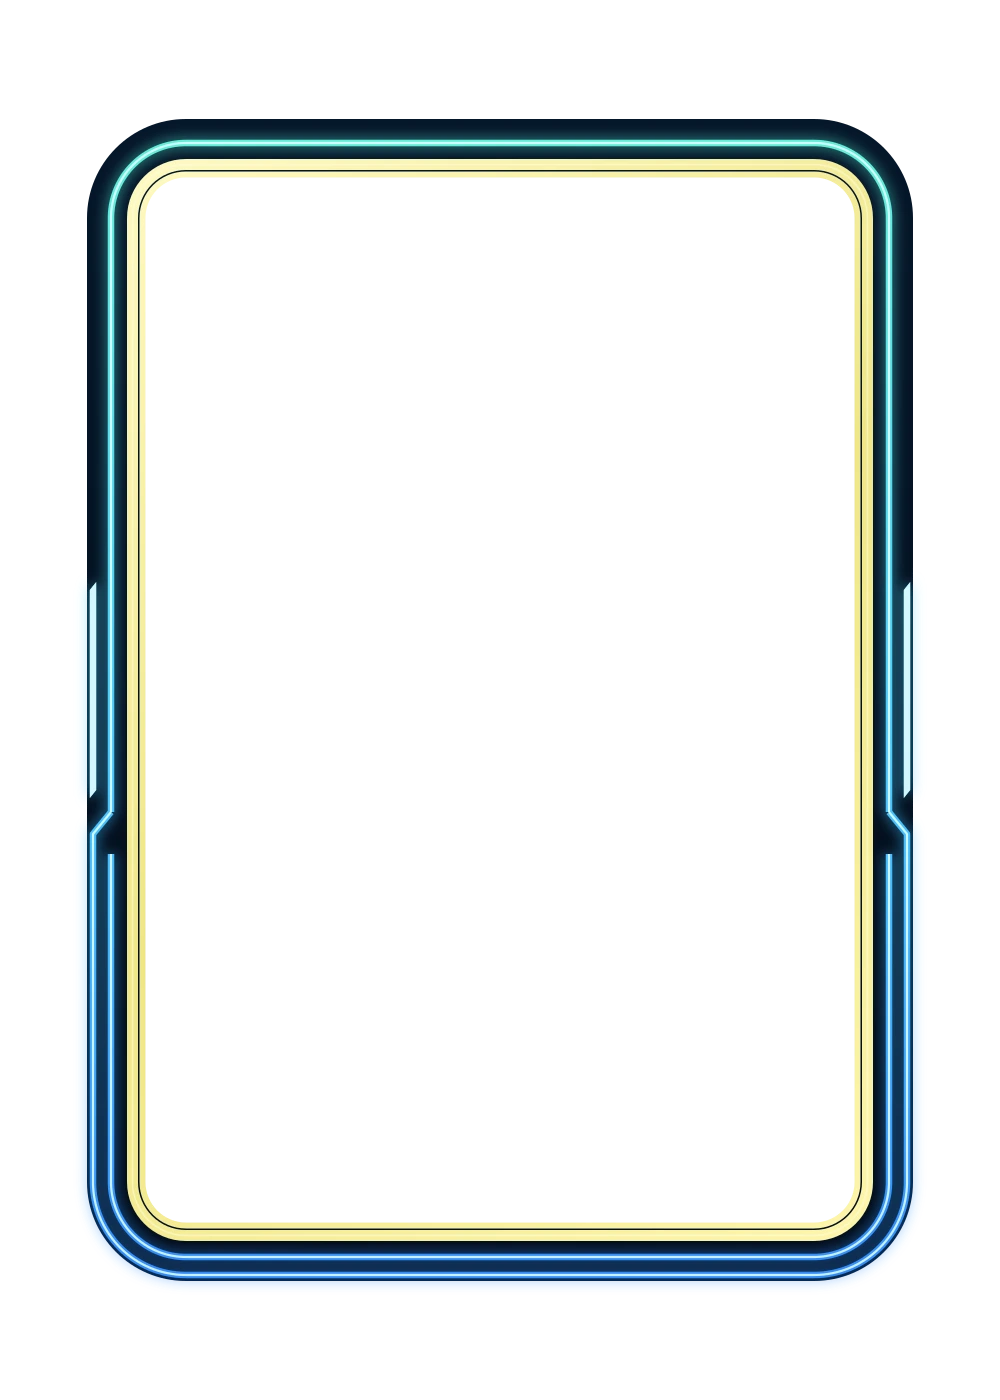
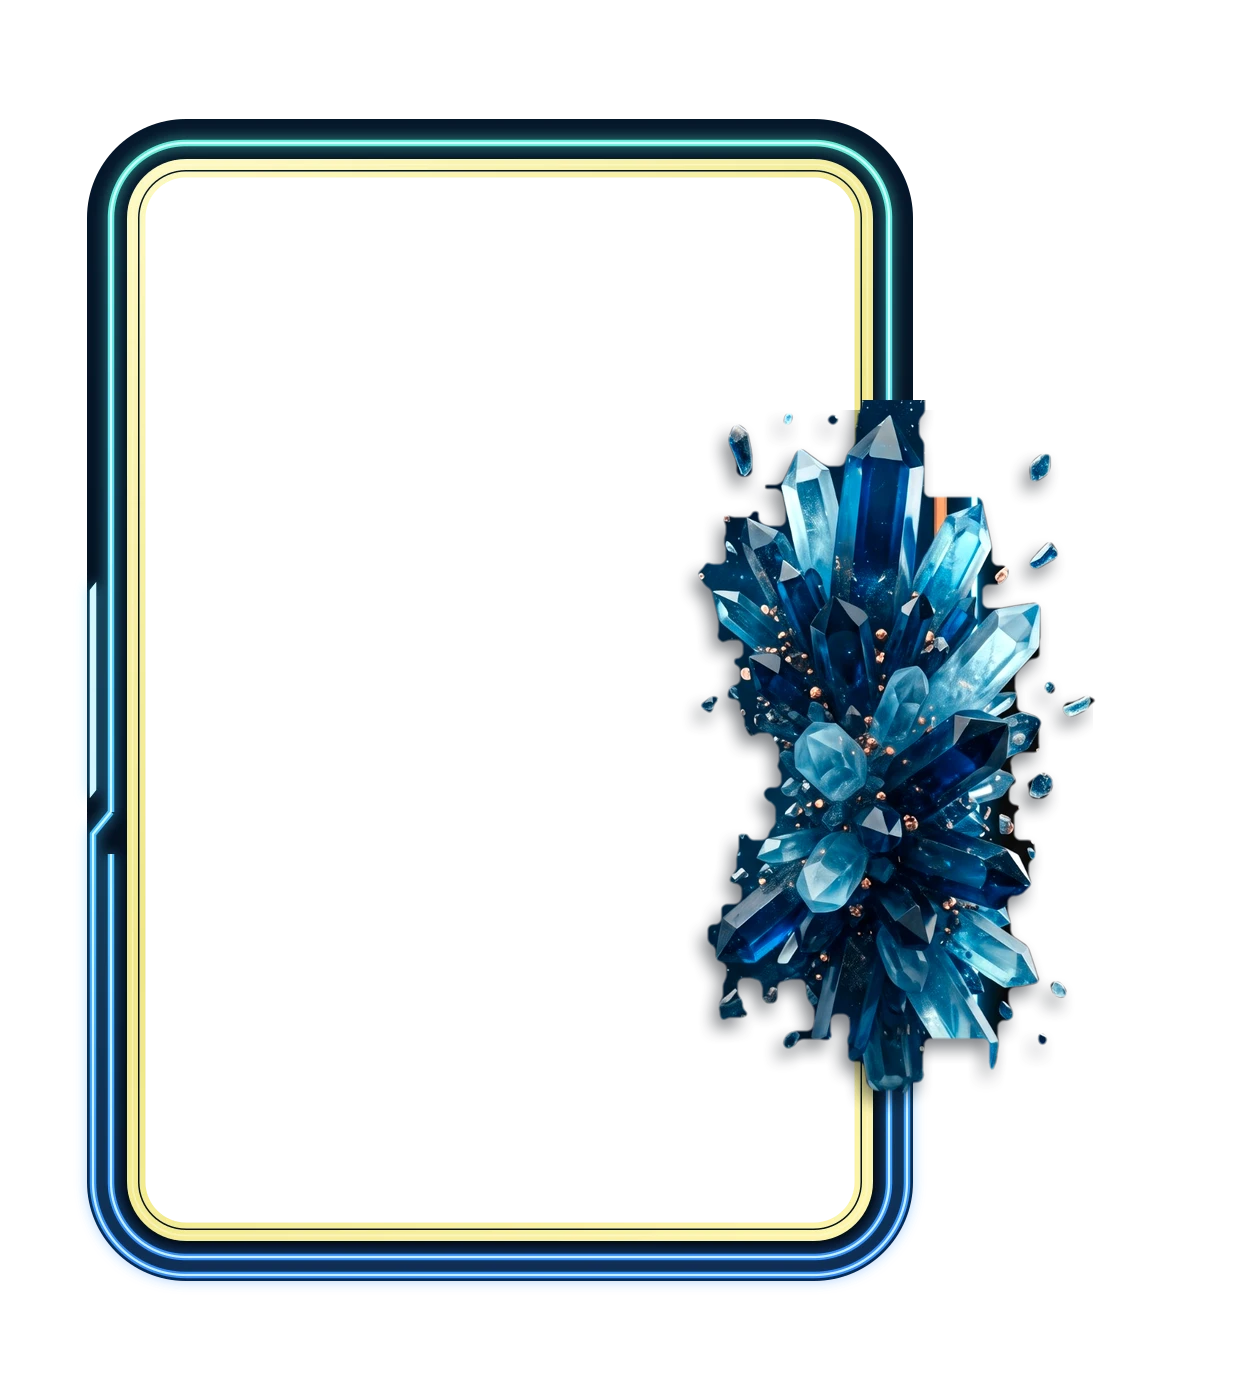
add 3D crystal render over Voltagem border and document border-style recipe
Claude-Session: https://claude.ai/code/session_01N8XLJoyFiwvoZXFrULaieo

Changed region(s): [[0.527, 0.0614, 0.93, 0.9214], [0.062, 0.0614, 0.186, 0.9214]]

diff --git a/components/cancha-card.tsx b/components/cancha-card.tsx
@@ -143,7 +143,7 @@ const ROUPAS = {
   // Ícone: branco creme com moldura de ouro claro, lembrando a carta Icon do FIFA (2026-10-29).
   // Voltagem (2026-11-05, pedido do dono do app: o estilo da borda da referência dele no nosso retângulo): fio duplo de ouro pálido por dentro e
   // linhas de neon por fora, com o degrau onde se dividem (`prototipos/voltagem.cjs`). Janela `ring` recuada até o fio de dentro.
-  voltagem: { background: "premium-voltagem", overflow: "premium-voltagem-vaza", window: "ring", windowInset: { x: 7.68, y: 5.48 }, windowRadius: 4.94, artFrame: true, clean: true, trim: null, metal: ["#c9b84e", "#c9b84e", "#fff7b0"], accent: "#f5ee9c", light: "150 230 255", bar: "#03121c", muted: "#bfeeff", sparkles: false, neon: "#36d6ff" },
+  voltagem: { background: "premium-voltagem", overflow: "premium-voltagem-vaza", overflowWidth: 1.25, window: "ring", windowInset: { x: 7.68, y: 5.48 }, windowRadius: 4.94, artFrame: true, clean: true, trim: null, metal: ["#c9b84e", "#c9b84e", "#fff7b0"], accent: "#f5ee9c", light: "150 230 255", bar: "#03121c", muted: "#bfeeff", sparkles: false, neon: "#36d6ff" },
   icone: { background: "premium-icone", clean: true, overflow: "premium-icone-vaza", overflowWidth: 774 / 714, artFrame: true, trim: null, metal: ["#c9a24e", "#c9a24e", "#fff4d6"], accent: "#e2c06e", light: "255 240 200", bar: "#1a140a", muted: "#f0dfb5", sparkles: false, neon: "#ffcf4d" },
   // Aurora (2026-11-04, GUARDADA: o dono gostou mas pediu para não aplicar ainda; não está em `CARD_SKINS`, então não aparece na Loja.
   // Para usar: entrada em `CARD_SKINS` (sugestão nível 14, 1600 CC), `case` em `skinRoupa` e `SKIN_CLASSES`): aurora boreal renderizada pixel a pixel em código (`prototipos/premium-aurora.cjs`), fio de ouro, respiro preto,

diff --git a/.claude/rules/design-system.md b/.claude/rules/design-system.md
@@ -45,6 +45,7 @@ Desde 2026-10-29 todas as cartas usam a `CanchaCard` (o `PlayerCard` a chama). A
 - **Carta padrão:** grafite fosco, sem brilho, moldura **fina de metal polido** (`METAL_FRAME`, faixas de reflexo na cor da moldura).
 - **Lenda do Trovão, versão 5 (2026-11-02, em camadas do Gemini; aprovada pelo dono do app; as versões 1 a 4, do Gemini e do Leonardo, saíram):** o dono pediu as três peças separadas e trocou o design: o **fundo** (tempestade azul e laranja com raios, num cartão), a **borda** (fio fino de ouro com o neon azul e laranja ondulado por fora, como raios) e o **render** (um cristal de rocha com raios azuis e fagulhas laranja que passa da carta pela direita). `prototipos/skin-lenda-v5.cjs`: mesma receita do Melhor Jogador (fundo → borda → render, sem separar nem preencher nada; as imagens não têm o mesmo tamanho, 687 × 1024 a borda e 1342 × 2000 as outras, mas a proporção é a mesma). Cada peça é luz sobre preto: cor pré-multiplicada (o pixel menos o piso do preto, que **não é preto: 15 a 26**, senão aparecia um retângulo escuro em volta) e alfa pelo brilho para a borda (luz, mistura); **o render do cristal tem alfa em degrau (sobe de 16 a 60 de brilho) e cor como está**: o corpo dele é cinza-azulado escuro (60 a 140), e com o alfa proporcional ao brilho ele ficava translúcido, "fantasma" (o dono viu); só o brilho em volta, mais fraco, mistura; o render fica por cima da borda e esmaece nos últimos px da imagem (vem cortado reto). `window: "ring"` com **`windowRadius` 5,2cqw** (campo novo da roupa; os destaques usam 8): a janela vai até o lado de dentro do fio de ouro e o canto dela é o da curva de dentro do fio, medido na borda onde ele sai da reta (~17 a 25 px antes do canto); com 6,1 sobrava uma cunha escura nos cantos. O cristal e as fagulhas que caem dentro da janela ficam no fundo, atrás do jogador. Roupa `clean`, `bareName`. **Animação simples só nos raios (pedido do dono do app, 2026-11-02, depois de ele rejeitar as do Time do Mês e do Melhor Jogador):** uma camada EXTRA com os raios do render (achados pelo contraste local e pelo brilho, mais claros, com um halo azul em volta), `skin-lenda-raios-dentro.webp` (atrás do jogador) e `skin-lenda-raios.webp` (por cima da moldura), que **só soma luz**: a arte continua com os raios sempre à vista (nada some) e a camada acende **forte** (cor quase branca e um halo azul largo), dá um segundo clarão e esmaece devagar, `cc-thunder-glow` de 3,6 s (visível quase metade do ciclo; `glow: true` na roupa; só `opacity`; com movimento reduzido, parada). A primeira versão (`cc-thunder-flash`, halo fraco) o dono achou quase invisível. **Armadilha:** o servidor de desenvolvimento serviu o `globals.css` velho (sem os `@keyframes` novos, mas com a classe do Tailwind gerada) e a animação não rodava; apagar `.next` e reiniciar resolveu (`document.getAnimations()` vazio é o sintoma). Os raios do céu do fundo não animam. **Armadilha:** a primeira captura saiu com a borda deslocada porque o servidor de desenvolvimento ainda não tinha recompilado; confira a posição pelo `getBoundingClientRect` do `<article>` e da imagem antes de achar que a conta está errada.
 - **Lenda do Trovão** (carta de prestígio **do evento Toró**, na seção Evento da Loja, **nível 5, 600 CC**, à venda só até 30/11/2026; aprovada pelo dono do app em 2026-10-31, primeiro como fixa no nível 10 e no mesmo dia passada para o evento no nível 5): a **moldura de metal dourado envelhecido** de um concept que o dono criou no Gemini, com o raio no topo e raios dourados e azuis, entra por fora da carta como arte (`overflow`), **sem o tubo de neon da carta** (`artFrame`), cobrindo uns 12 px da borda; os **raios azuis estalam como trovão** (`overflowBolts`; os dourados ficam acesos, porque têm a cor do metal e não dá para separar pela cor); o fundo é o miolo da arte de tempestade dele (nuvens carregadas com luz dourada). Scripts `prototipos/skin-lenda-arte.cjs` (moldura e raios, do concept) e `skin-lenda-fundo.cjs` (fundo). Para ficar perfeita, o dono vai gerar no Gemini a moldura, o fundo e os raios em peças separadas. Testadas e descartadas no caminho, como experimento: a carta com a arte de chuva (árvore e água) e a de tempestade com moldura azul e dourada.
+- **Voltagem (2026-11-05, em prévia na branch `feat/escudo-card`, nível 8 e 700 CC de teste; pedido do dono do app: o estilo de uma borda de referência dele no nosso retângulo, sem escudo):** fio duplo de ouro pálido por dentro, linhas de neon por fora (ciano no topo, azul embaixo) com o degrau diagonal onde a linha se divide, painel azul-noite e os **cristais 3D da arte do Gemini vazando por cima da moldura** (`overflowWidth` 1,25). Tudo gerado por `prototipos/voltagem.cjs` (moldura em SVG assada, render recortado de `premium-v2-dono.jpg`). Regra geral das bordas e receita no skill `cartas-cancha` ("Bordas: a especialidade"). **O formato é sempre o retângulo arredondado: o escudo do EA FC foi recusado.**
 - **Skins premium com cristais (aprovadas pelo dono do app em 2026-11-01; Esmeralda, Safira, Ametista e Rubi):** uma arte só que o dono gerou no Gemini (safira e ouro: fundo azul-noite com estrelas, fio de ouro, neon e um aglomerado de cristais com pepitas de ouro que sai pelo lado direito **por cima** da moldura), reaproveitada nas quatro pedras girando só o tom dos azuis (o ouro fica). `prototipos/premium-v2.cjs` ajusta a arte: proporção 5:7, o neon da arte é **redesenhado concêntrico ao ouro** (respiro de ~1,5% da largura nos quatro lados e nos cantos; o da arte tinha o canto mais fechado e um vão grande) e só ao lado do aglomerado vale o neon original, com passagem suave; saem `premium-<pedra>.webp` (fundo na janela) e `premium-<pedra>-vaza.webp` (moldura e cristais por fora, mais larga só para a direita: `overflowWidth` 774/714, porque o aglomerado passa da sobra de 8%). Cor nova de pedra = uma linha em `GEMS`. Roupas com `artFrame`, `overflow` e `overflowWidth`. **Lição do dono (2026-11-01):** o fundo da carta é o que mais pesa no premium; neon contínuo, fino e simétrico (sem aberturas irregulares); o que vaza passa por cima da moldura. Faixa de estatísticas continua escura e sólida (o vidro fosco foi testado e descartado: misturava estilos). Gemini: dar o gabarito 5:7 e pedir uma camada por mensagem. **O story de compartilhar não usa essa arte** (só cartas de prêmio).
 - **Ícone (2026-11-01, mesmo caminho, outra arte do Gemini):** mármore branco-creme com veios dourados, tubo e fio de ouro (já concêntricos, mantidos como vieram), aglomerado de quartzo, diamantes e pepitas de ouro por cima da moldura; `prototipos/premium-icone.cjs` (sem girar cor). Fundo claro: a roupa leva `clean` (sem a sombra atrás da pessoa, sem a vinheta e sem o degradê escuro que desce até as estatísticas: no mármore eles apareciam como sujeira). **Regra que serve para as próximas artes:** por dentro da carta, a camada de fora (`-vaza`) cobre só o que está fora da janela da carta (fio de ouro e cantos, medido pela janela arredondada); se ela entrar na janela, vira uma faixa por cima do ombro da foto (foi o que o dono viu na Ícone). A foto de exemplo termina com um corte reto antes da borda: com a faixa fora da janela, o corpo chega às duas bordas. A rampa da camada de fora fica 1 a 3 px **por dentro** da janela, onde o fundo sempre está presente: se ela passa da borda (que cai no meio de um pixel), uma coluna meio transparente deixa o escuro de trás aparecer e vira um risco fino por cima dos cristais. Os cristais translúcidos deixam ver o fio de ouro por baixo, como na arte. As premium com cristais (Safira etc.) ainda deixam ~7 px de faixa por cima da foto.
 - **Nuvem carregada (2026-11-01, tema criado do zero no Gemini, sem referência do FIFA, aprovada pelo dono do app):** céu de tempestade em cinza-chumbo e azul-acinzentado, fio de prata, tubo de neon branco, nuvem carregada com raios brancos ramificados que passa por cima da moldura. `prototipos/premium-nuvem.cjs` (mesmas medidas do painel da Ícone) **separa os raios**: tira do fundo tudo o que é branco e brilhante (menos o fio e o tubo) preenchendo com a média da nuvem em volta (suave: blocos apareciam com folga grande e fundo a 1/4 da resolução) e põe os raios em duas camadas que piscam juntas, `innerBolts` (janela, atrás do jogador, `z-2`) e `overflowBolts` (por fora, por cima da moldura), com `cc-thunder-flash` (apagam por inteiro, dois clarões, ciclo de 3,2 s; só `opacity`; com movimento reduzido ficam acesos). A nuvem vinha cortada reta pela borda direita da imagem: ela **esmaece num degradê longo (~210 px da arte)**; um recorte com ruído, que imitava fumaça, ficou bruto e foi descartado (o dono pediu o esmaecimento suave). O tubo e o fio da moldura não esmaecem. A **moldura elétrica e os mini raios em código** (`ElectricTrim`, `CloudBolts`, `lib/electric-trim.ts`) saíram. Pedido do dono: "os raios acendendo".

diff --git a/.claude/skills/cartas-cancha/SKILL.md b/.claude/skills/cartas-cancha/SKILL.md
@@ -49,3 +49,19 @@ O dono do app aprova tudo por prévia (print no tamanho do celular). **Sempre** 
 - Gradiente de cor da arte com pontos pretos: meça o piso do preto antes de calcular alfa.
 - Peso: cada camada WebP deve ficar abaixo de ~150 KB; 24 imagens de animação (924 KB) foram vistas como pesadas.
 - A carta aparece em muitos lugares (ranking, Coleção, mesa tática): teste em tamanho pequeno também.
+
+## Bordas: a especialidade (2026-11-05, pedido do dono do app)
+O dono quer **várias bordas, sempre diferentes**: umas em neon, outras mais metálicas (referência dele: moldura de ouro escovado com lâminas em leque nas laterais, estilo TOTY do EA FC), sempre com **render 3D vazando por cima da moldura** quando fizer sentido.
+
+**Regra inegociável: o formato é o NOSSO retângulo arredondado 5:7.** Nunca escudo, entalhe no topo, ombros chanfrados, ponta embaixo ou cantos em ponta (a primeira tentativa, `Escudo`, foi recusada por isso). As referências do EA FC servem só para o **estilo** (materiais, fios, neon, degraus, brilho, render que vaza), nunca para a silhueta. Nunca use arte do EA no app: reinterprete.
+
+**Anatomia de uma borda** (de fora para dentro): brilho e linhas de neon → painel azul-noite/escuro opaco → fio (ouro pálido duplo, metal escovado, prata) → janela do conteúdo. Ornamentos (leques, lâminas, degraus) ficam do lado de fora, dentro da sobra de 8% da caixa. O que vaza (render) fica por cima de tudo, sem cobrir nome, selo do OVR nem estatísticas.
+
+**Receita técnica (modelo: `prototipos/voltagem.cjs`, carta `voltagem`):**
+1. Desenhe a moldura em **SVG** no sistema da caixa (840 × 1176 dentro da célula 1000 × 1400, a caixa nos 84% do meio) e asse em WebP com `sharp`. Brilho = cópia desfocada dentro do SVG (`feGaussianBlur`), nunca `filter` CSS (iPhone).
+2. Raios **concêntricos**: `R(d) = 40 + (66 − d)` para o recuo `d` da borda (40 na borda de dentro do fio). Linhas de neon com degradê vertical (ciano no topo, azul embaixo) e um **degrau diagonal** onde a linha se divide em duas nos lados, com um pedaço solto acima.
+3. O miolo do painel é furado (`evenodd`) 1,5 px por dentro da janela, e o fio por cima cobre a emenda. Roupa: `window: "ring"`, `windowInset` e `windowRadius` (em cqw) medidos da mesma conta; `artFrame: true`, `clean: true`, `trim: null`.
+4. **Render que vaza:** recorte o aglomerado da arte do Gemini (`premium-v2-dono.jpg`): máscara por brilho (mais claro que o azul-noite) mais o azul-escuro que o fundo não tem, fechamento com caixa de 12 px e suavização por desfoque + limiar, tire o fio e o neon da arte por faixas, gire o tom, ponha uma sombra suave e componha **por cima** da moldura numa imagem mais larga (`overflowWidth`: 1,25). O fundo é o miolo da mesma arte sem o aglomerado (lado esquerdo espelhado). **Armadilhas:** `sharp(...).raw()` de 1 canal pode voltar com 3 (use `extractChannel(0)`); `resize` roda antes de `composite` (faça em dois passos); dilatar com caixa deixa degraus.
+5. Prévia no celular, comparando com a Safira ao lado, e só então o ok do dono.
+
+**Catálogo de estilos:** `voltagem` (neon duplo + fio duplo de ouro pálido + cristais 3D vazando). Próximos a propor: metálica de ouro escovado com lâminas em leque nas laterais e render de vidro dourado; prata e gelo; bronze e fogo; cromada holográfica. Cada uma: um estilo de fio, um de neon (ou nenhum), um ornamento lateral e um render. **Desenhar linha em código funcionou aqui porque o dono pediu o estilo da referência dele; o render, porém, sempre vem de arte dele no Gemini.**
